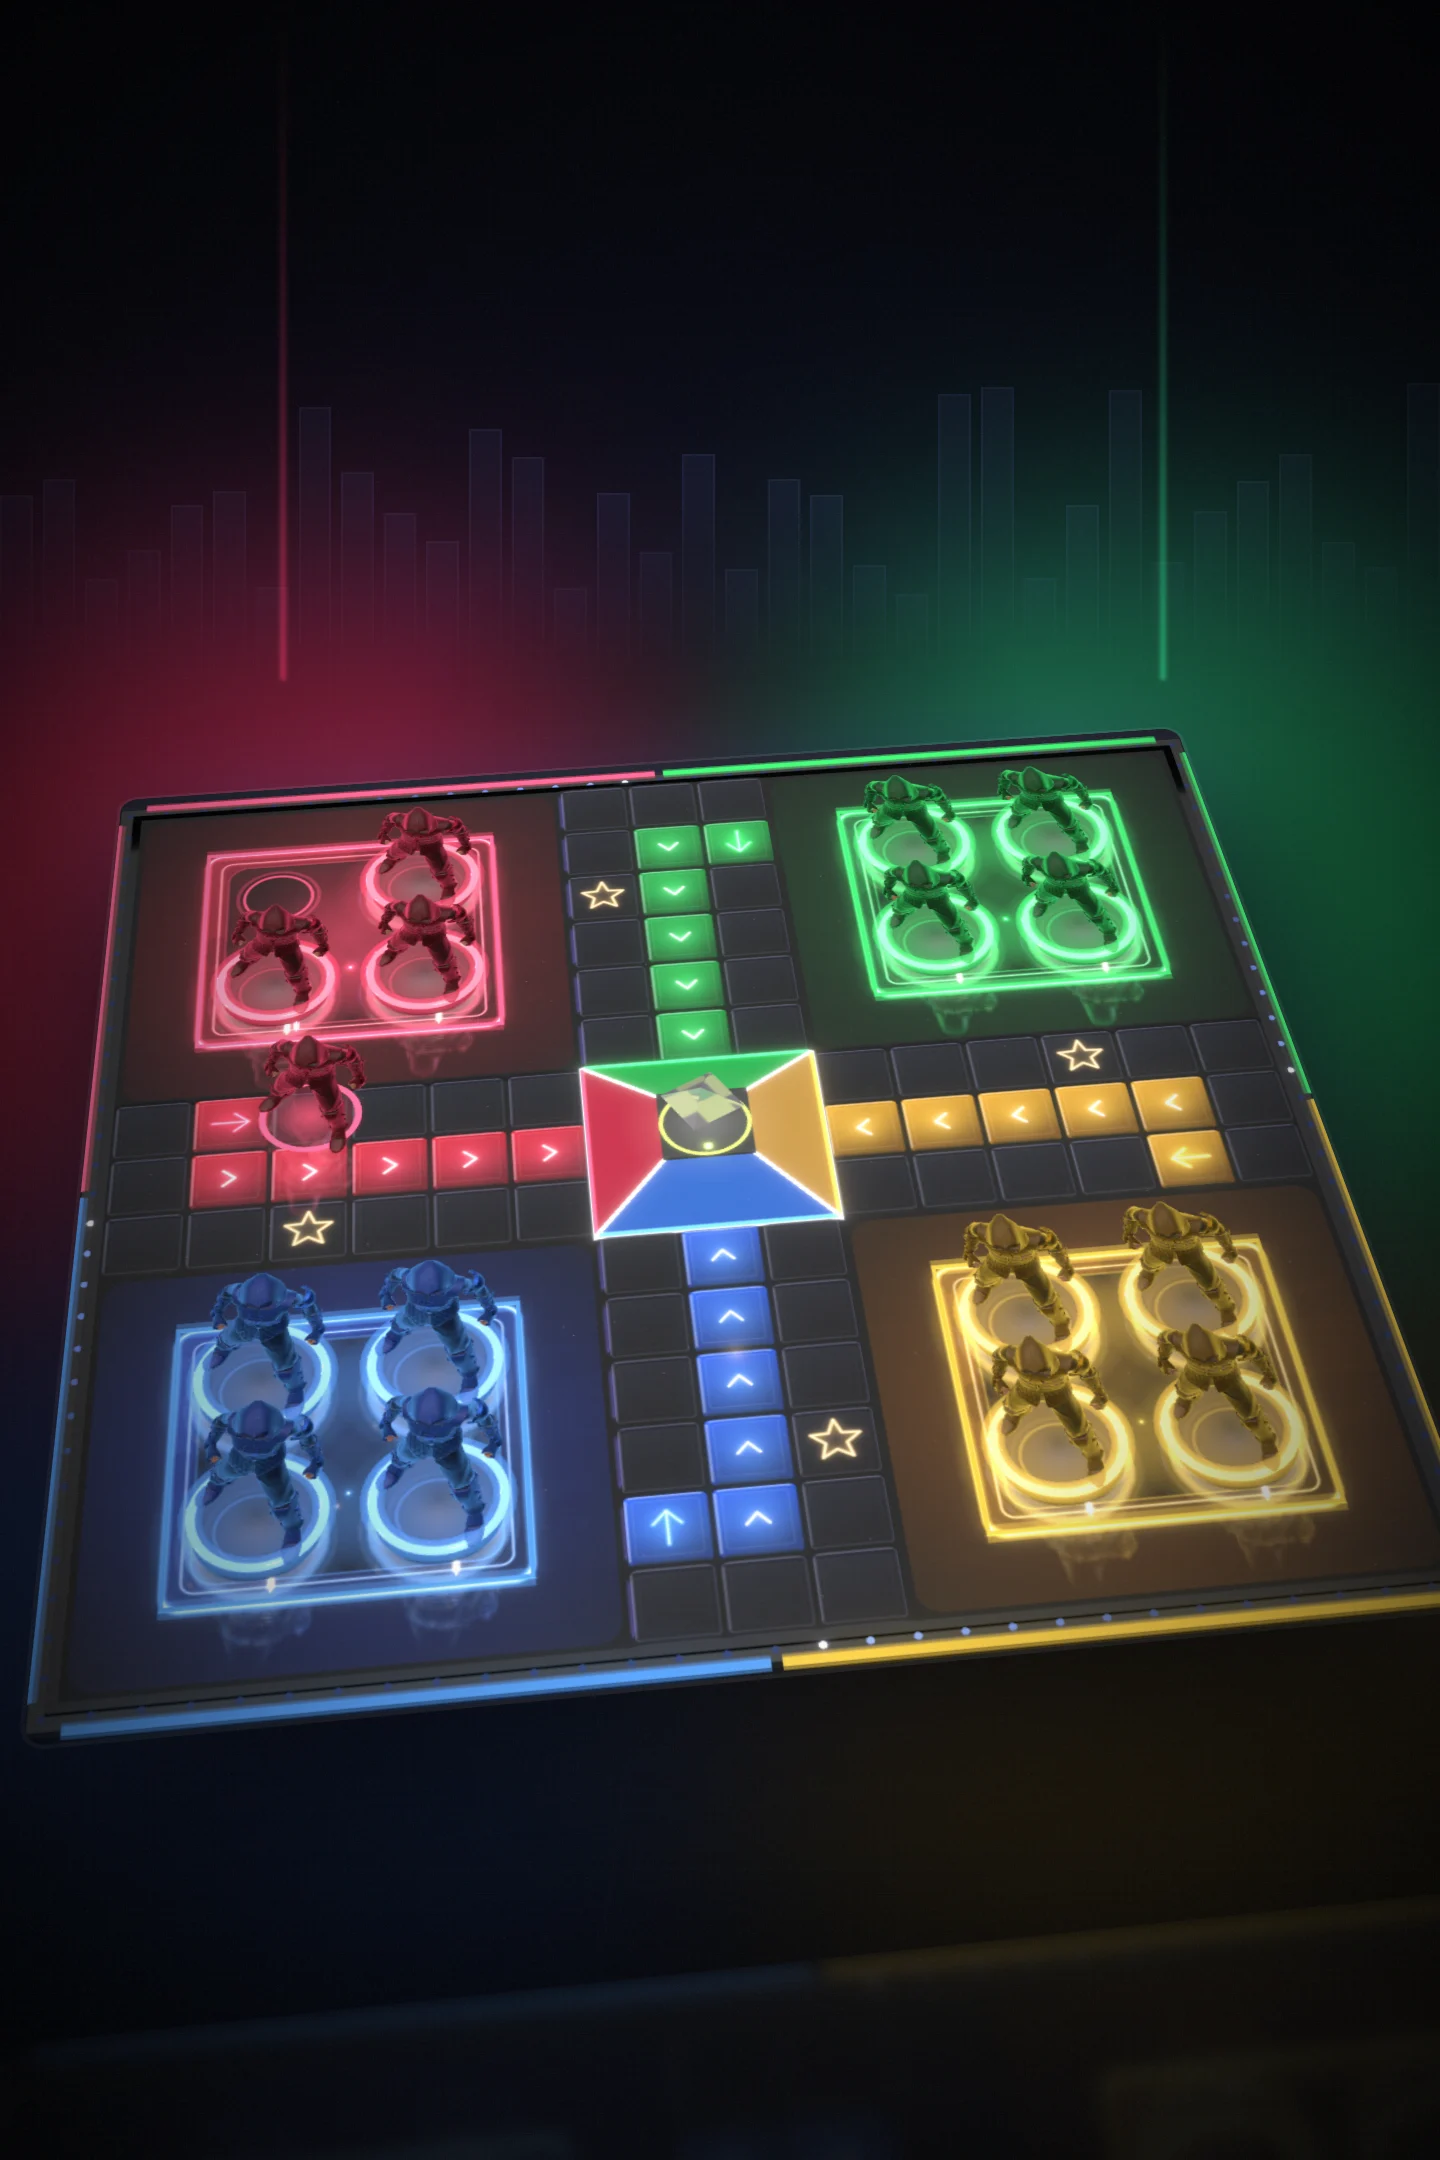
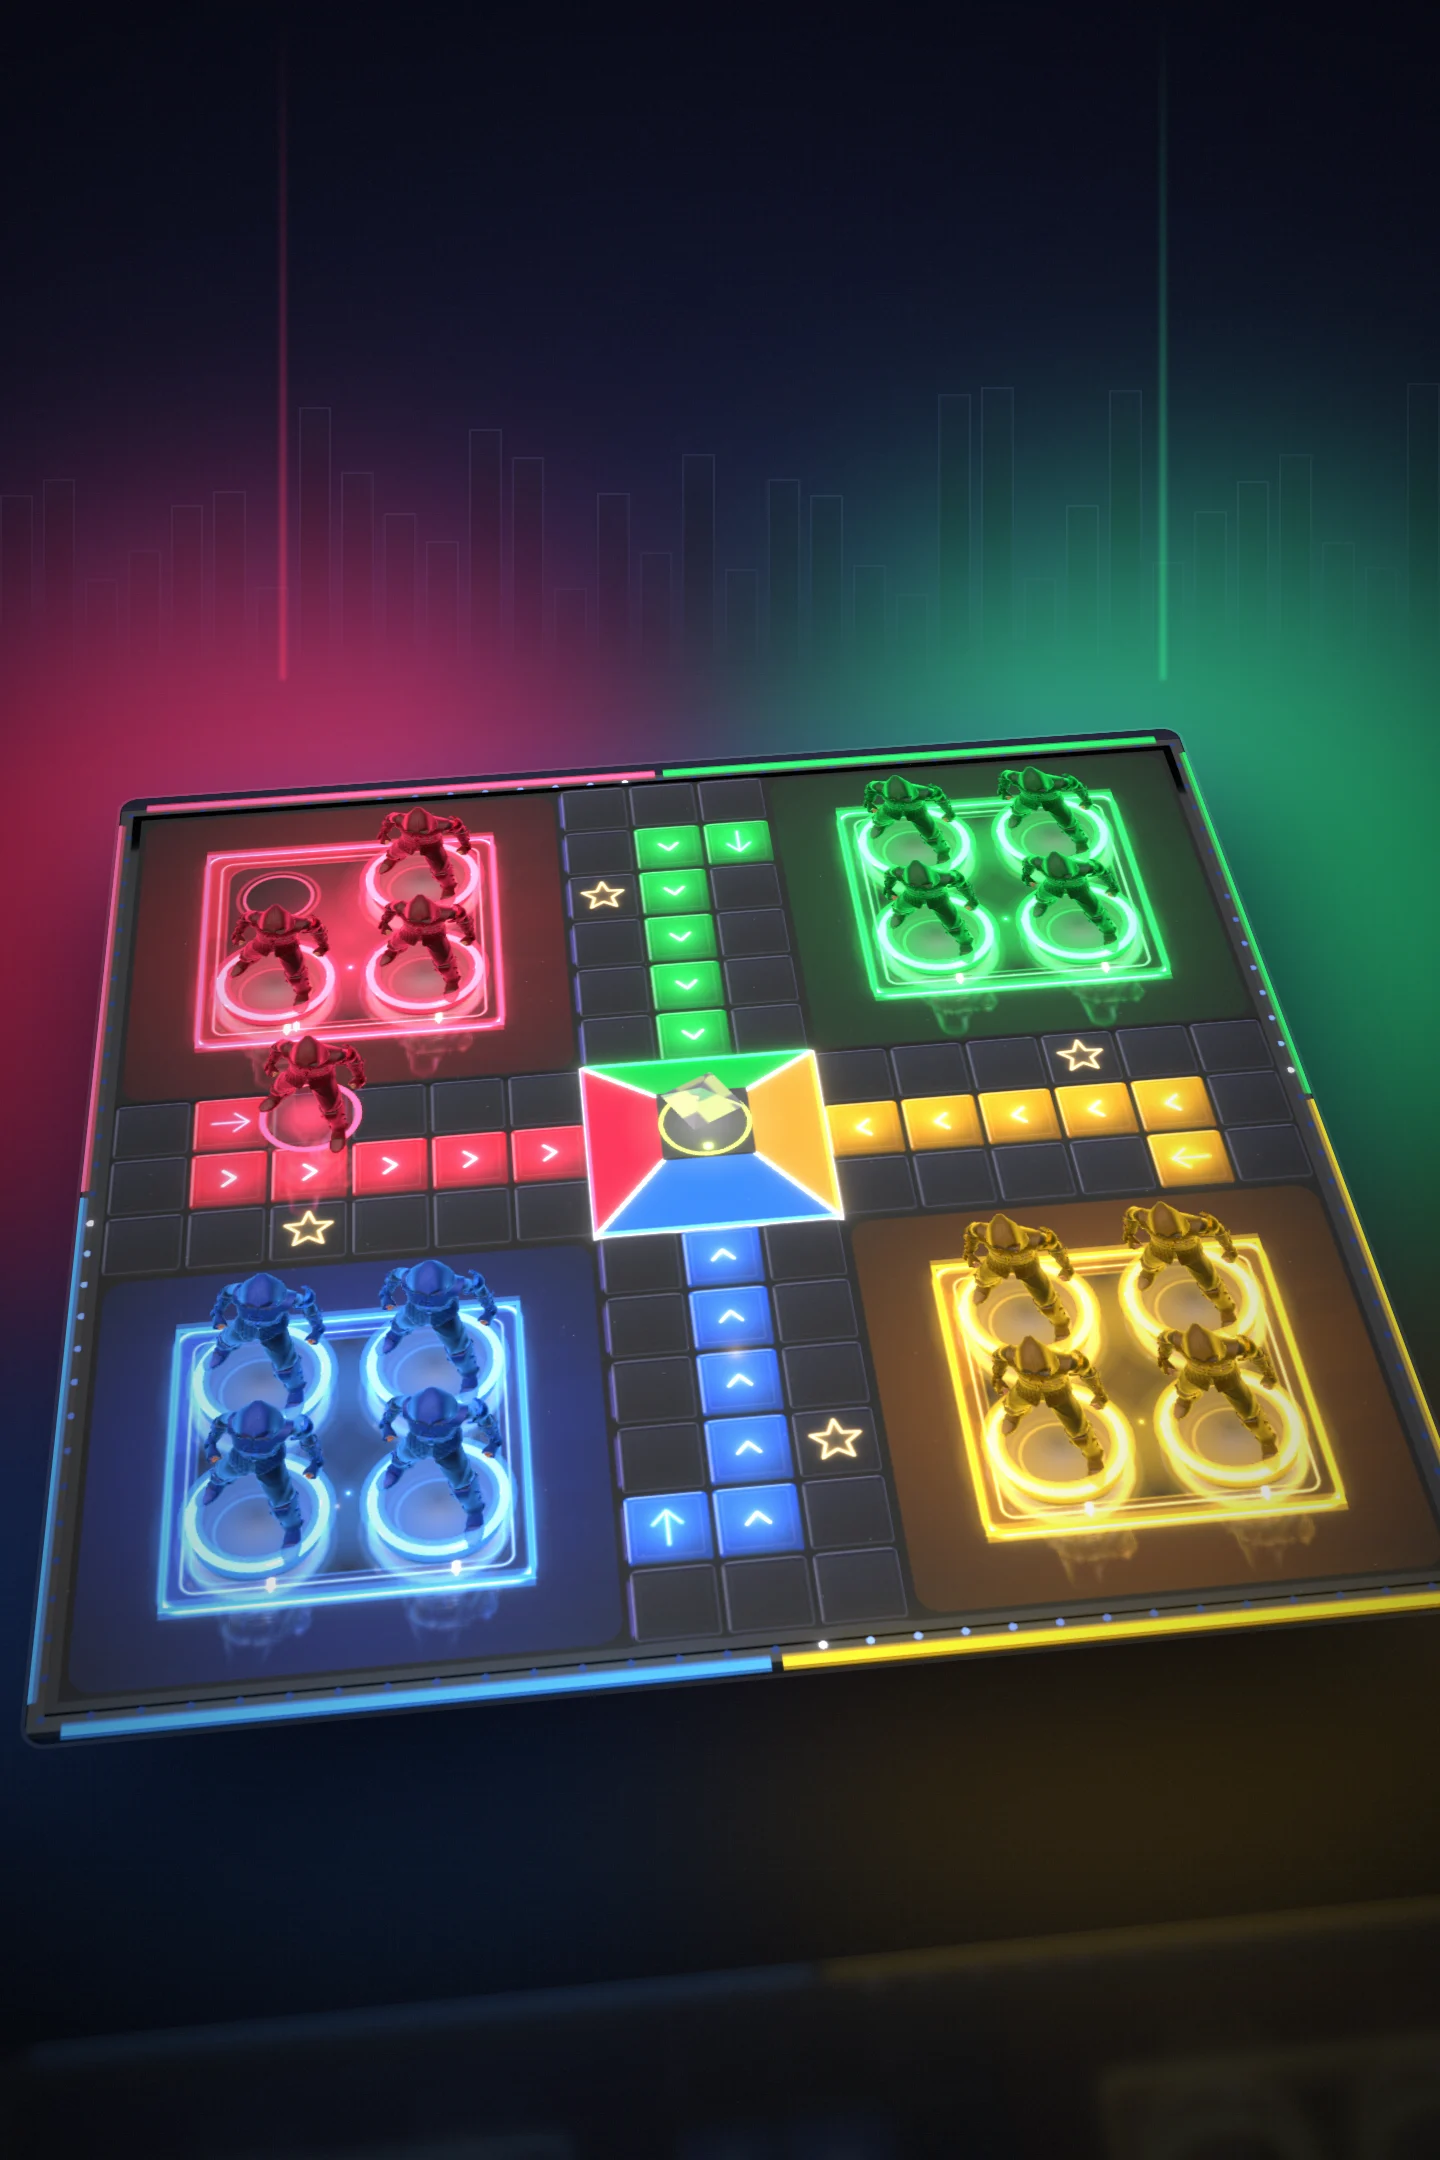
VIBO home: brighter posters (Midnight and the tiger, lit Neon Ludo, World Tycoon city) and a featured game carousel up top

diff --git a/src/social/screens/HomeScreen.tsx b/src/social/screens/HomeScreen.tsx
@@ -1,5 +1,5 @@
 import { useNavigate } from 'react-router-dom'
-import { Building2, ChevronRight, Dices, Footprints, Gift, PawPrint, Play, Plus, Search, Sparkle, TrainFront, WifiOff } from 'lucide-react'
+import { ChevronRight, Gift, Play, Plus, Sparkle, Users, WifiOff } from 'lucide-react'
 import { GAME_REGISTRY, GAME_LIST } from '@/games/registry'
 import { usePlayerStore } from '@/social/stores/usePlayerStore'
 import { useFriendsStore } from '@/social/stores/useFriendsStore'
@@ -11,15 +11,6 @@ import { sfx } from '@/lib/sound'
 import PartyPanel from '@/social/components/PartyPanel'
 import RewardedAdCard from '@/social/components/RewardedAdCard'
 import { Avatar, Card, SectionTitle } from '@/social/components/ui'
-
-const HERO_ICONS = [
-  { Icon: Dices, x: 70, y: 10, size: 46, color: '#f87171', delay: 0 },
-  { Icon: Building2, x: 84, y: 40, size: 40, color: '#34d399', delay: 0.8 },
-  { Icon: PawPrint, x: 66, y: 52, size: 38, color: '#4ade80', delay: 1.6 },
-  { Icon: Search, x: 86, y: 74, size: 34, color: '#a78bfa', delay: 2.4 },
-  { Icon: TrainFront, x: 72, y: 82, size: 30, color: '#fb923c', delay: 1.2 },
-  { Icon: Footprints, x: 90, y: 6, size: 28, color: '#fbbf24', delay: 2 },
-]
 
 function greeting() {
   const h = new Date().getHours()
@@ -57,7 +48,7 @@ export default function HomeScreen() {
       <div className="relative">
         <p className="text-sm font-semibold text-slate-400">{greeting()},</p>
         <h1 className="text-[1.75rem] font-black leading-tight text-white">
-          {profile.name} 👋
+          {profile.name}
         </h1>
       </div>
 
@@ -67,36 +58,34 @@ export default function HomeScreen() {
         </div>
       )}
 
-      {/* welcome */}
-      <section className="home-hero relative mt-4 overflow-hidden rounded-[28px] p-5 ring-1 ring-white/10">
-        <div className="home-hero-glow pointer-events-none absolute inset-0" />
-        <div className="pointer-events-none absolute inset-0">
-          {HERO_ICONS.map(({ Icon, x, y, size, color, delay }, i) => (
-            <span key={i} className="home-hero-float absolute" style={{ left: `${x}%`, top: `${y}%`, animationDelay: `${delay}s` }}>
-              <span className="flex items-center justify-center rounded-2xl bg-white/[0.07] ring-1 ring-white/10 backdrop-blur-sm" style={{ width: size, height: size, color }}>
-                <Icon size={size * 0.5} strokeWidth={2.2} />
-              </span>
-            </span>
-          ))}
-        </div>
-        <div className="relative max-w-[62%]">
-          <p className="text-[10px] font-black uppercase tracking-[0.22em] text-brand-2">VIBO</p>
-          <p className="mt-1 text-[1.45rem] font-black leading-[1.1] text-white">Play together. Talk together.</p>
-          <p className="mt-1.5 text-xs font-medium leading-snug text-slate-300">Three games, party chat and voice with your friends.</p>
-        </div>
-        <div className="relative mt-4 flex flex-wrap gap-2">
-          <button type="button" onClick={() => navigate('/games')} className="inline-flex items-center gap-1.5 rounded-full bg-white px-4 py-2.5 text-sm font-black text-surface-0 active:scale-95">
-            <Play size={15} className="fill-surface-0" /> Choose a game
-          </button>
-          {recentGames.length > 0 && (
+      {/* featured games: big poster cards, swipe across; the last played game comes first */}
+      <section className="relative mt-4">
+        <div className="no-scrollbar -mx-4 flex snap-x snap-mandatory gap-3 overflow-x-auto px-4 pb-1 md:-mx-6 md:px-6">
+          {[featured, ...GAME_LIST.filter((g) => g.id !== featured.id)].map((g, i) => (
             <button
+              key={g.id}
               type="button"
-              onClick={() => navigate(`/games/${featured.id}/play`)}
-              className="inline-flex items-center gap-1.5 rounded-full bg-white/10 px-3.5 py-2.5 text-xs font-extrabold text-white ring-1 ring-white/15 active:scale-95"
+              onClick={() => navigate(`/games/${g.id}/play`)}
+              className="group relative aspect-[4/5] w-[78%] shrink-0 snap-center overflow-hidden rounded-[26px] text-left ring-1 ring-white/10 sm:w-[46%] lg:w-[31%]"
+              style={{ boxShadow: `0 24px 50px -24px ${g.accentHex}88` }}
             >
-              Continue {featured.name}
+              <img src={`/posters/${g.id}.webp`} alt="" className="absolute inset-0 h-full w-full object-cover transition-transform duration-700 group-hover:scale-105" draggable={false} />
+              <span className="absolute inset-0 bg-gradient-to-t from-black/90 via-black/20 to-black/10" />
+              <span className="absolute left-4 top-4 inline-flex items-center gap-1.5 rounded-full bg-black/45 px-2.5 py-1 text-[10px] font-bold uppercase tracking-[0.18em] text-white/90 ring-1 ring-white/15 backdrop-blur-md">
+                {i === 0 && recentGames.length > 0 ? 'Continue' : 'Featured'}
+              </span>
+              <span className="absolute right-4 top-4 inline-flex items-center gap-1 rounded-full bg-black/45 px-2.5 py-1 text-[10px] font-bold text-white/90 ring-1 ring-white/15 backdrop-blur-md">
+                <Users size={11} /> {g.playersLabel}
+              </span>
+              <span className="absolute inset-x-4 bottom-4">
+                <span className="block text-[1.7rem] font-black leading-none tracking-tight text-white drop-shadow">{g.name}</span>
+                <span className="mt-1.5 block text-[12px] font-semibold uppercase tracking-[0.16em] text-white/70">{g.tagline}</span>
+                <span className="mt-3.5 inline-flex items-center gap-1.5 rounded-full bg-white px-4 py-2 text-[13px] font-black text-surface-0 transition-transform group-active:scale-95">
+                  <Play size={14} className="fill-surface-0" /> Play now
+                </span>
+              </span>
             </button>
-          )}
+          ))}
         </div>
       </section>
 
@@ -164,26 +153,6 @@ export default function HomeScreen() {
         </section>
       </div>
 
-      <section className="relative mt-7">
-        <SectionTitle
-          action={
-            <button type="button" onClick={() => navigate('/games')} className="flex items-center text-xs font-bold text-brand-2">
-              All games <ChevronRight size={14} />
-            </button>
-          }
-        >
-          Quick play
-        </SectionTitle>
-        <div className="grid grid-cols-3 gap-2.5 sm:grid-cols-6">
-          {GAME_LIST.map((g) => (
-            <button key={g.id} type="button" onClick={() => navigate(`/games/${g.id}/play`)} className="group relative aspect-[3/4] overflow-hidden rounded-2xl ring-1 ring-white/10">
-              <img src={`/posters/${g.id}.webp`} alt="" className="absolute inset-0 h-full w-full object-cover transition-transform duration-500 group-hover:scale-110" />
-              <span className="absolute inset-0 bg-gradient-to-t from-black/85 via-black/10 to-transparent" />
-              <span className="absolute inset-x-2 bottom-2 text-left text-[12px] font-extrabold leading-tight text-white">{g.name}</span>
-            </button>
-          ))}
-        </div>
-      </section>
     </div>
   )
 }

diff --git a/tools/wildbound-blender/poster_duo.py b/tools/wildbound-blender/poster_duo.py
@@ -1,0 +1,136 @@
+"""
+VIBO home poster for Amazon Run (Blender 4.5, background):
+  blender -b --python poster_duo.py -- stallion.glb raja.glb out.png [tiger_yaw_deg] [horse_frame] [tiger_frame]
+Midnight and the tiger galloping side by side toward the camera in bright daylight: a warm high sun, a blue sky fill,
+a crisp rim. Transparent background (the poster page lays them over the jungle photo). 1440 x 2160.
+"""
+import sys
+import math
+import bpy
+from mathutils import Vector
+
+a = sys.argv[sys.argv.index('--') + 1:]
+horse_src, tiger_src, out = a[:3]
+tyaw = math.radians(float(a[3])) if len(a) > 3 else 0.0
+hf = int(a[4]) if len(a) > 4 else 6
+tf = int(a[5]) if len(a) > 5 else 4
+TX = float(a[6]) if len(a) > 6 else -1.7
+TY = float(a[7]) if len(a) > 7 else -0.55
+bpy.ops.wm.read_factory_settings(use_empty=True)
+sc = bpy.context.scene
+
+
+def load(path):
+    before = set(bpy.data.objects)
+    bpy.ops.import_scene.gltf(filepath=path)
+    new = [o for o in bpy.data.objects if o not in before]
+    for o in list(new):
+        if o.type == 'MESH' and o.name.startswith('Icosphere'):
+            bpy.data.objects.remove(o, do_unlink=True)
+            new.remove(o)
+    return new
+
+
+def wbox(objs):
+    bpy.context.view_layer.update()
+    pts = []
+    for o in objs:
+        if o.type == 'MESH':
+            dg = bpy.context.evaluated_depsgraph_get()
+            ev = o.evaluated_get(dg)
+            m = ev.to_mesh()
+            pts += [ev.matrix_world @ m.vertices[i].co for i in range(0, len(m.vertices), 7)]
+            ev.to_mesh_clear()
+    lo = Vector([min(p[i] for p in pts) for i in range(3)])
+    hi = Vector([max(p[i] for p in pts) for i in range(3)])
+    return lo, hi
+
+
+horse = load(horse_src)
+for o in horse:
+    if o.type == 'MESH' and o.name.startswith('MESH_horse'):
+        bs = next((x for x in o.material_slots[0].material.node_tree.nodes if x.type == 'BSDF_PRINCIPLED'), None)
+        if bs:
+            bs.inputs['Roughness'].default_value = 0.5
+            if 'Specular IOR Level' in bs.inputs:
+                bs.inputs['Specular IOR Level'].default_value = 0.35
+harm = next(o for o in horse if o.type == 'ARMATURE')
+harm.animation_data_create()
+harm.animation_data.action = next(x for x in bpy.data.actions if x.name == 'Gallop')
+hact = harm.animation_data.action
+tiger = load(tiger_src)
+tarm = next(o for o in tiger if o.type == 'ARMATURE')
+tact = next(x for x in bpy.data.actions if x != hact)
+tarm.animation_data_create()
+tarm.animation_data.action = tact
+# the tiger's top-level node: scale and turn it as a whole
+troot = next(o for o in tiger if o.parent is None)
+sc.frame_set(hf)
+# both actions play on their own frame: offset the tiger's strip so each sits at its own pose on the same scene frame
+if tact.frame_range[1] > 1:
+    tarm.animation_data.action = None
+    tr = tarm.animation_data.nla_tracks.new()
+    st = tr.strips.new('t', int(hf - tf), tact)
+lo, hi = wbox(tiger)
+h = hi.z - lo.z
+s = 1.25 / max(1e-6, h)  # the tiger's height in the game's proportions (horse 2.04 tall to the ears)
+troot.scale = troot.scale * s
+troot.rotation_mode = 'XYZ'
+troot.rotation_euler.z += tyaw
+bpy.context.view_layer.update()
+lo, hi = wbox(tiger)
+c = (lo + hi) / 2
+troot.location += Vector((TX - c.x, TY - c.y, 0.14 - lo.z))
+bpy.context.view_layer.update()
+print('TIGER box', [round(x, 2) for x in lo], [round(x, 2) for x in hi])
+
+sc.render.engine = 'BLENDER_EEVEE_NEXT'
+for k, v in (('use_raytracing', True), ('taa_render_samples', 96), ('use_shadows', True)):
+    if hasattr(sc.eevee, k):
+        setattr(sc.eevee, k, v)
+sc.view_settings.view_transform = 'AgX'
+sc.view_settings.look = 'AgX - Punchy'
+sc.render.film_transparent = True
+sc.render.resolution_x, sc.render.resolution_y = 1440, 2160
+sc.render.image_settings.file_format = 'PNG'
+sc.render.image_settings.color_mode = 'RGBA'
+sc.world = bpy.data.worlds.new('w')
+sc.world.use_nodes = True
+sc.world.node_tree.nodes['Background'].inputs[0].default_value = (0.45, 0.6, 0.85, 1)
+sc.world.node_tree.nodes['Background'].inputs[1].default_value = 0.45
+sun = bpy.data.lights.new('sun', 'SUN')
+sun.energy, sun.color, sun.angle = 4.5, (1.0, 0.9, 0.75), math.radians(3)
+so = bpy.data.objects.new('sun', sun)
+sc.collection.objects.link(so)
+so.rotation_euler = (math.radians(45), math.radians(-15), math.radians(240))
+
+
+def area(name, loc, energy, color, size, tgt):
+    ld = bpy.data.lights.new(name, 'AREA')
+    ld.energy, ld.color, ld.size = energy, color, size
+    lo_ = bpy.data.objects.new(name, ld)
+    sc.collection.objects.link(lo_)
+    lo_.location = loc
+    lo_.rotation_euler = (Vector(tgt) - Vector(loc)).to_track_quat('-Z', 'Y').to_euler()
+
+
+area('rim', (3.0, 4.5, 3.0), 1600, (0.85, 0.92, 1.0), 2, (-1.0, 0.1, 1.1))
+area('rim2', (3.0, -2.5, 2.5), 350, (1.0, 0.85, 0.65), 2, (-0.6, 0.7, 1.1))
+area('fill', (-6, -1, 1.5), 300, (0.9, 0.95, 1.0), 5, (-0.6, 1.3, 1.0))
+# ground: catches the contact shadow; holdout keeps the picture transparent except for the shadow darkening
+bpy.ops.mesh.primitive_plane_add(size=40, location=(0, 1.3, 0.14))
+g = bpy.context.active_object
+g.is_shadow_catcher = True
+g.hide_render = True
+
+cd = bpy.data.cameras.new('cam')
+cam = bpy.data.objects.new('cam', cd)
+sc.collection.objects.link(cam)
+sc.camera = cam
+tgt = Vector((-1.15, 0.1, 0.95))
+cam.location = tgt + Vector((-4.6, -2.2, -0.3))
+cam.rotation_euler = (tgt + Vector((0, 0, 0.15)) - cam.location).to_track_quat('-Z', 'Y').to_euler()
+cd.lens = 38
+sc.render.filepath = out
+bpy.ops.render.render(write_still=True)
+print('RENDERED', out)
